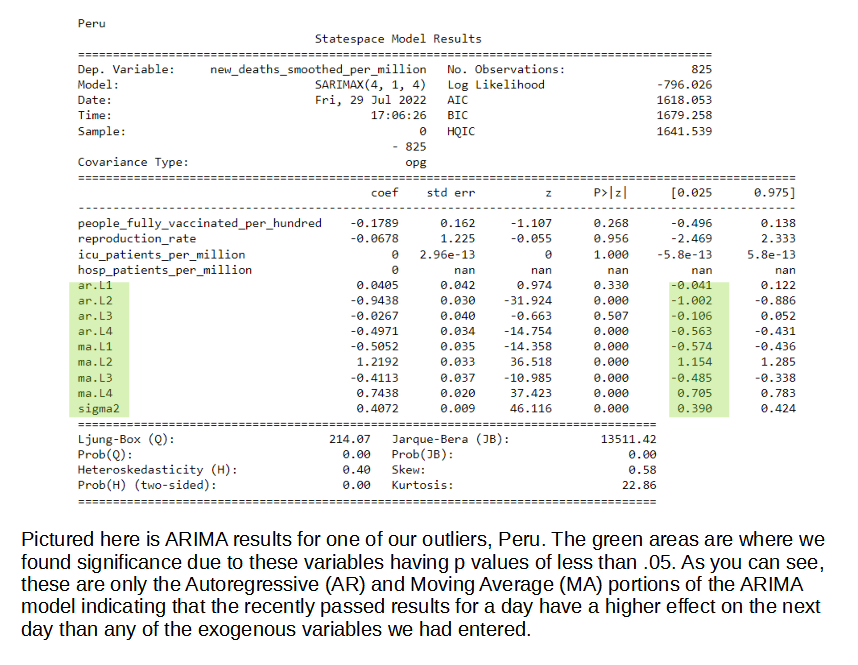
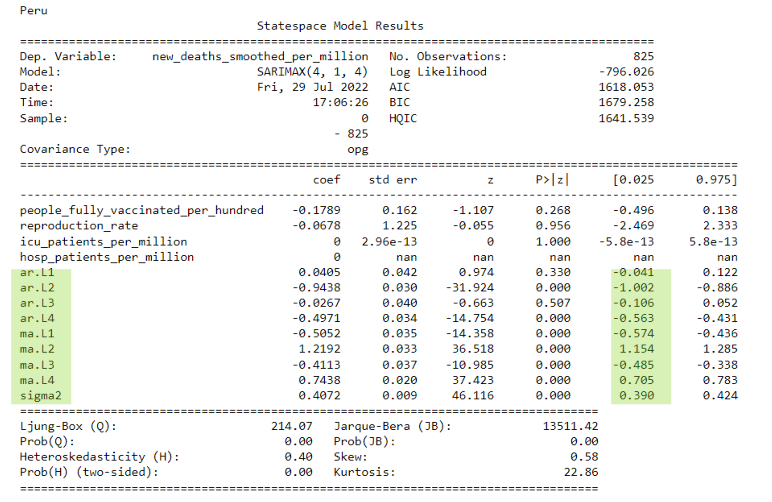
Editing descriptions

Changed region(s): [[0.0, 0.0299, 0.9637, 0.9861], [0.0311, 0.0, 0.0622, 0.0299]]

diff --git a/index.html b/index.html
@@ -296,14 +296,25 @@
 					
 					<section>
 						<p>
-							People fully vaccinated is the exogenous variable we were most interested in. We hoped to show that as the number of people vaccinated increased that the number of deaths would decrease. We should see the inverse of this with Hospital and ICU patients. As their values increase we should see an increase in the number of new deaths. For an example of the model and how we would analyze these hypotheses, we will take a look at Peru's model results:						
+							People fully vaccinated is the exogenous variable we were most interested in. We hoped to show that as the number of people vaccinated increased that the number of deaths would decrease. We should see the inverse of this with Hospital and ICU patients. As their values increase we should see an increase in the number of new deaths.
 						</p>
 					</section>	
 					
+					<section>
+						<p>
+							Pictured below are the ARIMA results for one of our outliers, Peru. The green areas are where we found significance due to these variables having p values of less than .05. As you can see, these are only the Autoregressive (AR) and Moving Average (MA) portions of the ARIMA model indicating that the recently passed results for a day have a higher effect on the next day than any of the exogenous variables we had entered. 
+						</p>
+					</section>	
 					
 					<section>
 						<img src="/visualizations/peru_arima_summary.png" alt="Peru COVID ARIMA Model Summary">
 					</section>
+					
+					<section>
+						<p>
+							In the following slide, we see plot diagnostics for Peru's ARIMA Model. In the top left plot, the residual errors seem to fluctuate around a mean of zero but at random intervals have major spikes due to the introduction of new variants. The histogram plus density plot on the top right shows a slight skew towards the right with our data. This is also indicated by the Q-Q plot on the bottom left by the tail on the right skewing upwards. The ACF plot in the bottom right shows the residual errors are autocorrelated. Any autocorrelation would imply that there is some pattern in the residual errors which are not explained in the model. So you will need to look for more predictors to the model. We are keen to believe that these residual errors not explained by the model are factors that may be external to the dataset overall. 
+						</p>
+					</section>	
 					
 					<section>
 						<img src="/visualizations/peru_arima_diagnostics.png" alt="Peru COVID ARIMA Model Plot Diagnostics">
